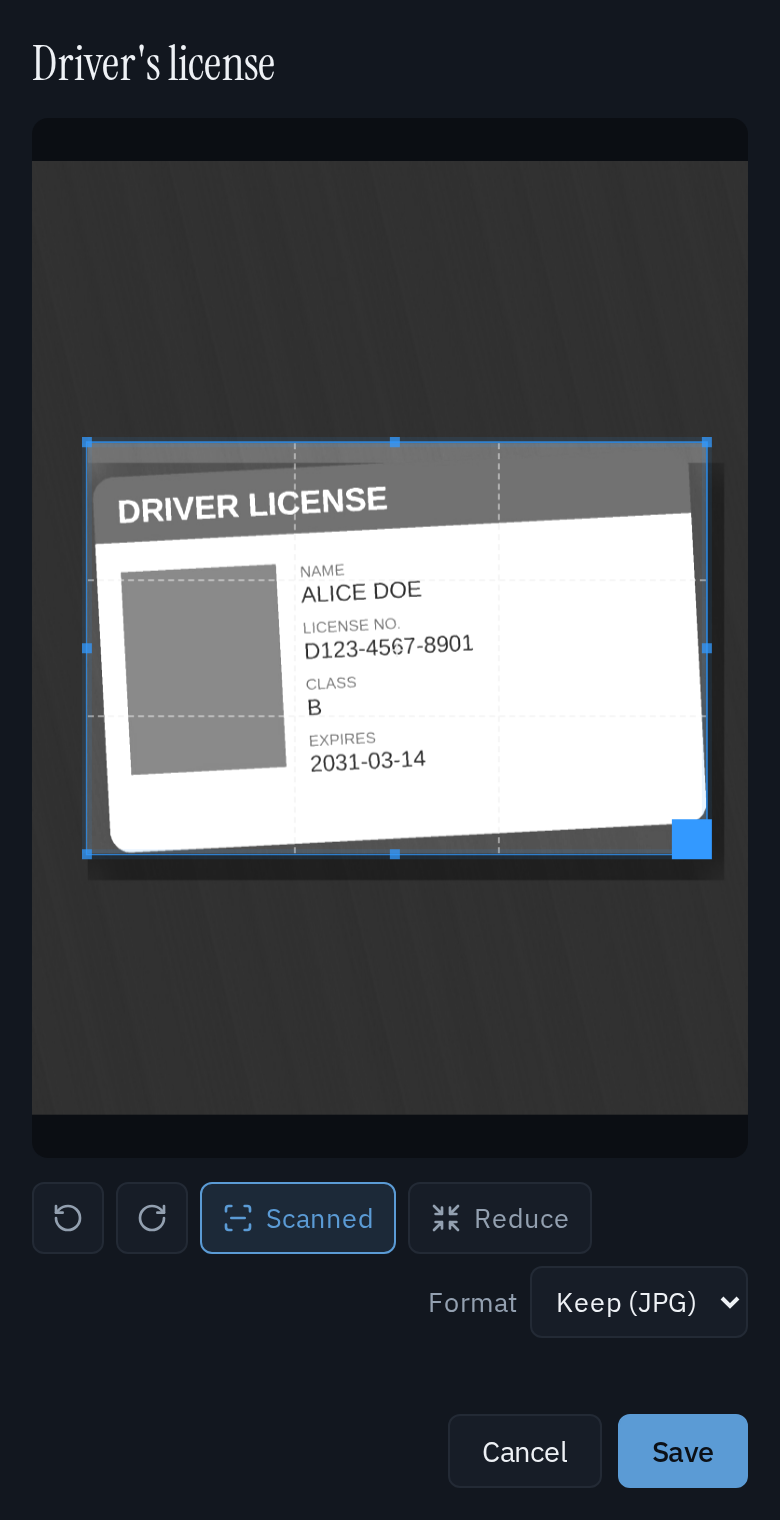
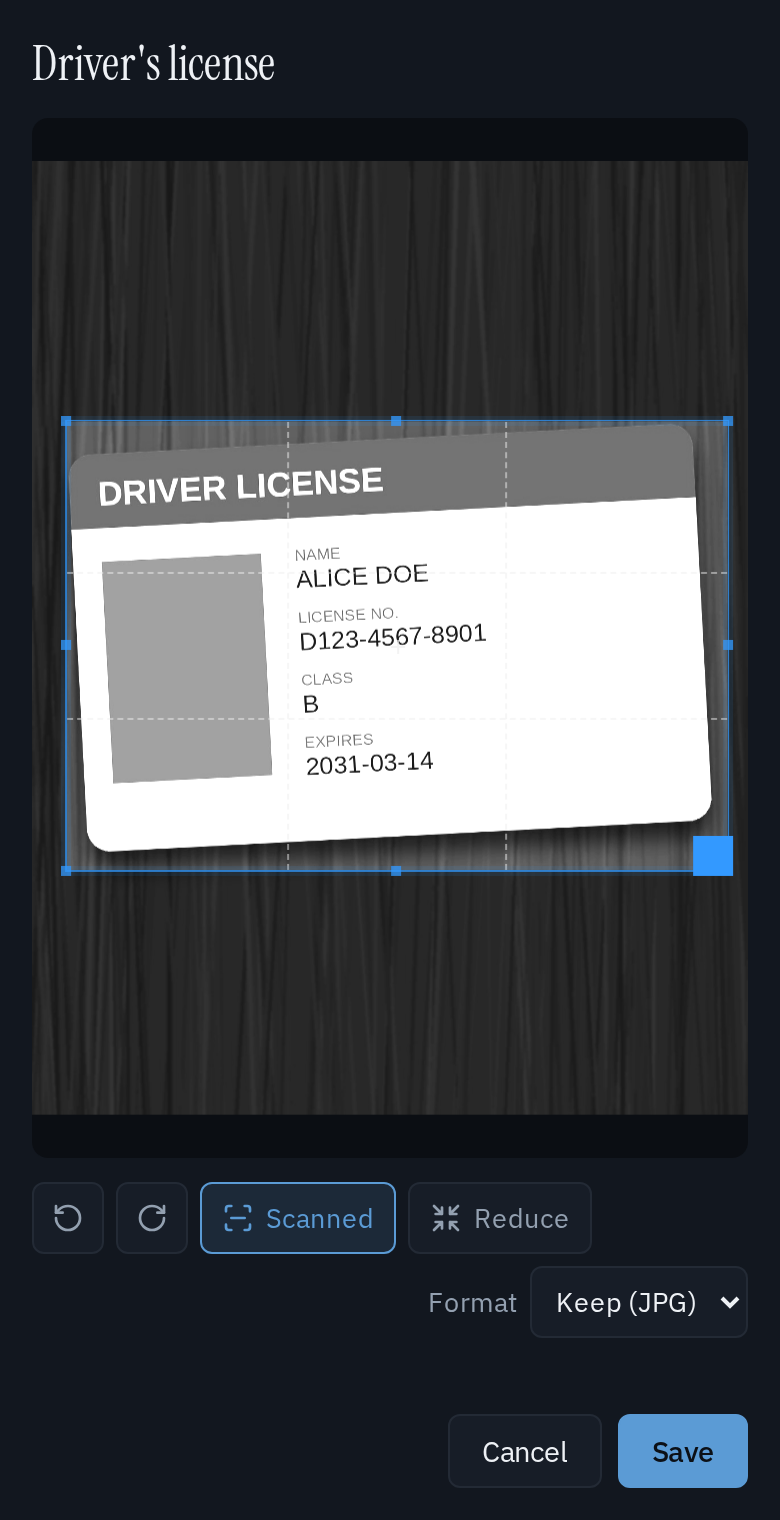
Update the docs screenshots for search and expiry dates (#25)
The list shows the search field, the Expiring chip and both expiry
badges (expiring soon, expired); the document view shows the passport's
expiry date. The page editor and section screenshots are retaken with
the same demo data and the current header, so the four match.

Changed region(s): [[0.0615, 0.2474, 0.9538, 0.5875]]

diff --git a/docs/index.md b/docs/index.md
@@ -13,8 +13,8 @@ later.
 *Papelada* is Portuguese for "paperwork", or more precisely "a pile of papers".
 
 <p>
-  <img src="assets/screenshot-list.png" width="165" alt="Documents of one section, with tag filters">
-  <img src="assets/screenshot-document.png" width="165" alt="A document, with the path of its file in the volume">
+  <img src="assets/screenshot-list.png" width="165" alt="Documents of one section, with search, filters and expiry badges">
+  <img src="assets/screenshot-document.png" width="165" alt="A document, with its expiry date and the path of its file in the volume">
   <img src="assets/screenshot-editor.png" width="165" alt="The page editor: cropping a photographed card, with the scanned filter on">
   <img src="assets/screenshot-section.png" width="165" alt="Editing a section: name and icon">
 </p>
